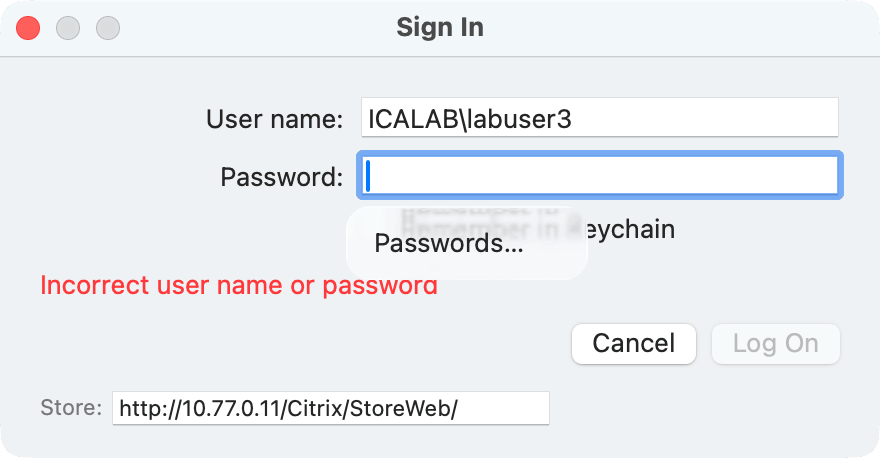
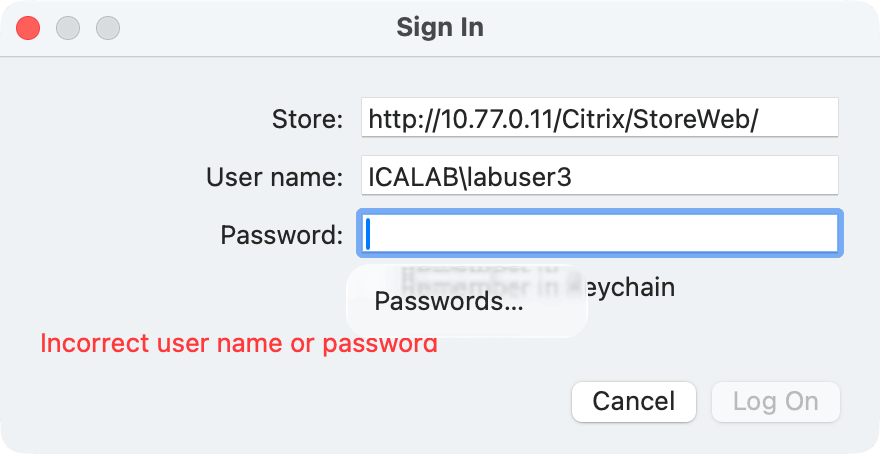
0.8.0: version, README and FEATURES for what landed since 0.7.0, manual refreshed (Settings panes, Session menu, sign-out, full desktop), release checklist with the profile and the DMG check in the VM

diff --git a/FEATURES.md b/FEATURES.md
@@ -1,20 +1,22 @@
 # Feature matrix: stock Citrix Workspace app vs ICAViewer
 
 ICAViewer is an independent project and is not affiliated with Citrix. The stock columns summarise
-Citrix's public documentation (links under Sources). The Ours column describes ICAViewer v0.5.0 as
-of 2026-11-13; how each feature behaves is described in the README and under `docs/`.
+Citrix's public documentation (links under Sources). The Ours column describes ICAViewer v0.8.0 as
+of 2026-11-18; how each feature behaves is described in the README and under `docs/`.
 
 ## At a glance
 
-- **Works, verified live:** gateway logon with password and one-time code, seamless apps as native
-  Mac windows with their own Dock entries, several apps in one session, reconnect, survival of short
-  network drops, Thinwire graphics, several monitors, Retina scaling, text and image clipboard,
-  audio playback and microphone.
-- **Built, not yet verified live:** client drive (one shared folder), printing to PDF, H.264,
-  formatted text (HTML, RTF) on the clipboard, webcam with a real camera, copying files through the
-  clipboard in the app is verified live both ways (D92).
-- **Main gaps:** file transfer, links opening on the Mac, automatic reconnect after longer drops,
-  UDP transport (EDT), Teams optimisation, smart cards, USB devices.
+- **Works, verified live:** gateway logon with password and one-time code, StoreFront directly without a
+  gateway, seamless apps as native Mac windows with their own Dock entries, several apps in one
+  session, a published desktop in one window, reconnect and survival of network drops, Thinwire and
+  H.264 graphics, Retina scaling, text, image, rich text and file clipboard, a shared client drive,
+  audio playback, PDF printing, the keyboard layout announced at sign-in, sign-out, and an indicator
+  for features the server refuses.
+- **Built, not yet verified live:** microphone (the test servers never opened it), webcam with a real
+  camera, a by-hand test of the automatic reconnect after a long drop.
+- **Main gaps:** links opening on the Mac, several monitors for a desktop, HTML on the clipboard (the
+  server filters it), SAML, smart card and FIDO2, USB devices, UDP transport (an experimental path
+  exists, off), Teams optimization.
 
 ## How to read the tables
 
@@ -42,7 +44,7 @@ of 2026-11-13; how each feature behaves is described in the README and under `do
 | Feature | Win | Mac | Linux | Web | ChromeOS | iOS | Android | Ours | Notes |
 |---|---|---|---|---|---|---|---|---|---|
 | StoreFront through NetScaler Gateway | Yes | Yes | Yes | Yes | Yes | Yes | Yes | Yes | |
-| StoreFront direct, without gateway | Yes | Yes | Yes | Yes | Yes | Yes | Yes | ? | Ours: designed; all tests ran through a gateway |
+| StoreFront direct, without gateway | Yes | Yes | Yes | Yes | Yes | Yes | Yes | Yes | Ours: verified live against the lab StoreFront, with CGP and raw ICA ports |
 | Citrix Cloud (Workspace) stores | Yes | Yes | Yes | Yes | Yes | Yes | Yes | No | |
 | Anonymous store access | Yes | Yes | Yes | Yes | Yes | Yes | Yes | ? | |
 | Store set-up from an email address | Yes | Yes | No | No | No | Yes | Yes | No | |
@@ -67,11 +69,11 @@ of 2026-11-13; how each feature behaves is described in the README and under `do
 | Feature | Win | Mac | Linux | Web | ChromeOS | iOS | Android | Ours | Notes |
 |---|---|---|---|---|---|---|---|---|---|
 | Seamless published apps | Likely | Partly | ? | Partly | ? | Partly | Partly | Yes | Mac: borderless windows (see below). Web: inside a browser tab. Mobile: inside a session view, unverified |
-| Full desktops | Yes | Yes | Yes | Yes | Yes | Yes | Yes | ? | Ours: only seamless apps are tested |
+| Full desktops | Yes | Yes | Yes | Yes | Yes | Yes | Yes | Partly | Ours: one published desktop opens in one fixed-size window (verified in a VM); no multi-monitor desktop |
 | Desktop Viewer toolbar | Yes | Yes | Yes | Yes | Yes | Yes | Yes | No | |
 | Several apps in one session | Yes | Yes | Yes | Yes | Yes | Yes | Yes | Yes | Ours: no second logon |
 | Reconnect to a disconnected session | Yes | Yes | Yes | Yes | Yes | Yes | Yes | Yes | Ours: also offered at start |
-| Session list (Connection Center) | Likely | ? | ? | ? | ? | ? | ? | Partly | Ours: reconnect, disconnect, log off |
+| Session list (Connection Center) | Likely | ? | ? | ? | ? | ? | ? | Yes | Ours: reconnect, take over, disconnect, log off; shows features the server refuses and an unencrypted connection |
 | Local App Access | Yes | No | No | No | No | No | No | No | |
 
 ## Network
@@ -96,10 +98,10 @@ of 2026-11-13; how each feature behaves is described in the README and under `do
 | Feature | Win | Mac | Linux | Web | ChromeOS | iOS | Android | Ours | Notes |
 |---|---|---|---|---|---|---|---|---|---|
 | Thinwire classic | Yes | Yes | Yes | Yes | Yes | Yes | Yes | Yes | |
-| H.264 | Yes | Yes | Yes | Yes | Yes | Yes | Yes | Built | Ours: the test server never chose H.264 |
+| H.264 | Yes | Yes | Yes | Yes | Yes | Yes | Yes | Yes | Ours: 4:2:0 decode verified in the lab; 4:4:4 is not requested |
 | H.265 / AV1 | Yes | Partly | Partly | ? | ? | ? | ? | No | Mac, Linux: H.265 only |
 | Full colour (YUV 4:4:4) | Yes | Yes | ? | ? | ? | ? | ? | No | |
-| Hardware video decoding | Yes | Yes | Yes | No | No | No | Yes | Built | Ours: VideoToolbox, the H.264 path |
+| Hardware video decoding | Yes | Yes | Yes | No | No | No | Yes | Yes | Ours: VideoToolbox, the H.264 path |
 | Desktop composition redirection | Yes | No | No | No | No | No | No | No | |
 | Several monitors as one desktop | Yes | Yes | Yes | Yes | Yes | Partly | Partly | Yes | iOS, Android: external monitor only. Ours: size fixed per session |
 | Retina / HiDPI scaling | Likely | ? | ? | Yes | ? | Yes | Yes | Yes | Ours: 2x on Retina, 1x above 5120 × 4096 |
@@ -118,7 +120,7 @@ of 2026-11-13; how each feature behaves is described in the README and under `do
 
 | Feature | Win | Mac | Linux | Web | ChromeOS | iOS | Android | Ours | Notes |
 |---|---|---|---|---|---|---|---|---|---|
-| Keyboard layout sync to a Windows VDA | Yes | Yes | Yes | No | No | Yes | Yes | Yes | Ours: the Mac's input source at logon (DE, US, UK, FR, CH, NL, ES, IT, Dvorak and more); after a switch, characters go as text (D141) |
+| Keyboard layout sync to a Windows VDA | Yes | Yes | Yes | No | No | Yes | Yes | Yes | Ours: the Mac's input source at sign-in (DE, US, UK, FR, CH, NL, ES, IT, Dvorak and more); after a switch, characters go as text; verified headless |
 | Keyboard layout sync to a Linux VDA | Yes | Yes | Yes | No | No | Yes | Yes | ? | |
 | Scancode keyboard mode | Yes | Yes | Yes | Yes | Yes | No | No | Yes | |
 | Unicode keyboard mode | No | Yes | Yes | Yes | Yes | Yes | Yes | Partly | Ours: Option-composed characters only |
@@ -133,9 +135,9 @@ of 2026-11-13; how each feature behaves is described in the README and under `do
 | Feature | Win | Mac | Linux | Web | ChromeOS | iOS | Android | Ours | Notes |
 |---|---|---|---|---|---|---|---|---|---|
 | Clipboard: plain text | Likely | Yes | Yes | Yes | ? | ? | ? | Yes | |
-| Clipboard: formatted text, images | Likely | Yes | Yes | Partly | ? | ? | ? | Partly | Web: HTML confirmed, images not. Ours: images verified both ways (D85); RTF with formatting and rich text with an embedded image (RTFD ⇄ RTF `\pict`) verified both ways with Word, headless (D100); HTML built, not carried by the site's Word |
-| Clipboard: files | Likely | Yes | Yes | ? | ? | ? | ? | Built | Ours: both ways over CTXGDT, Finder ⇄ Explorer, folders included; protocol verified live headless (D88), app built, live check pending (D90) |
-| Local folder in the session (client drive) | Yes | Yes | Yes | Yes | Yes | Yes | Yes | Built | Ours: one shared folder; the test site maps no drives |
+| Clipboard: formatted text, images | Likely | Yes | Yes | Partly | ? | ? | ? | Yes | Web: HTML confirmed, images not. Ours: images and RTF (also with a picture) verified both ways with WordPad and LibreOffice Writer; HTML does not cross (the server filters it) |
+| Clipboard: files | Likely | Yes | Yes | ? | ? | ? | ? | Yes | Ours: both ways over CTXGDT, Finder and Explorer, folders included, with a progress window above 50 MB; verified live in a VM. Throughput depends on the server pacing |
+| Local folder in the session (client drive) | Yes | Yes | Yes | Yes | Yes | Yes | Yes | Yes | Ours: one shared folder as drive M, verified live (the read bug is fixed) |
 | File transfer (upload, download) | Likely | Likely | Likely | Likely | Likely | ? | ? | No | Not a matrix row. Ours: under investigation |
 | Open a local file in a remote app | Yes | Partly | Yes | No | Yes | Yes | Yes | No | Mac: matrix no, but Mac 2411 added file type association |
 | Links in remote apps open on the client | Yes | Yes | Yes | Yes | Yes | Yes | Yes | No | Host-to-client URL redirection |
@@ -145,14 +147,14 @@ of 2026-11-13; how each feature behaves is described in the README and under `do
 
 | Feature | Win | Mac | Linux | Web | ChromeOS | iOS | Android | Ours | Notes |
 |---|---|---|---|---|---|---|---|---|---|
-| Printing to client printers | Yes | Yes | Yes | Yes | Yes | Yes | No | Built | Ours: PDF to the macOS print panel, off by default |
+| Printing to client printers | Yes | Yes | Yes | Yes | Yes | Yes | No | Yes | Ours: the session PDF printer delivers a PDF to the Mac, verified to a valid PDF; off by default |
 | Any USB device (generic USB) | Yes | Yes | Yes | Yes | Yes | Yes | Yes | No | Mac docs describe storage devices |
 | Smart card in the session | Likely | ? | Likely | ? | Partly | ? | ? | No | ChromeOS: through generic USB |
 | FIDO2 / WebAuthn in the session | Yes | Yes | Yes | ? | ? | ? | ? | No | Windows 2402, Linux 2303, Mac 2307 and later |
 | Scanners | Yes | No | Partly | No | Yes | No | No | No | Windows: TWAIN, WIA (not LTSR). Linux: SANE. ChromeOS 2411.1; matrix says no |
 | Webcam | Yes | Yes | Yes | Yes | Yes | Yes | Yes | Built | Ours: 32-bit host apps only; no real camera tried |
 | Audio playback | Yes | Yes | Yes | Yes | Yes | Yes | Yes | Yes | |
-| Microphone | Yes | Yes | Yes | Yes | Yes | Yes | Yes | Yes | Ours: off by default |
+| Microphone | Yes | Yes | Yes | Yes | Yes | Yes | Yes | Built | Ours: off by default; the test servers' VDA never opened the capture device, so nothing has been recorded |
 | Audio over UDP | Yes | No | Yes | No | No | No | No | No | |
 | Location | Yes | Partly | No | No | No | Yes | Yes | No | Mac 2607 preview; matrix says no |
 | Mobile device features (mobility pack) | Yes | No | No | Yes | Yes | Yes | Yes | No | |
@@ -238,22 +240,16 @@ Libraries next to them: `libUrlRedirection_client.dylib` (link redirection), `li
 
 Ordered for daily use through a gateway with mail and line-of-business applications.
 
-1. **Auto client reconnect: built, live check pending.** Session reliability covers short outages.
-   The ACR protocol works up to the host, but on this site Windows then asks for a logon (D84). So
-   after a longer outage ICAViewer now relaunches the app through the store by itself, which
-   reconnects the session; it waits up to 10 minutes for the network and then falls back to the
-   Reconnect panel (D86). Needs the user's GUI test (Wi-Fi off for more than 3 minutes).
-2. **Live verification of what is already built.** Client drive mapping and printing are
-   implemented but need a site that redirects drives and printers; clipboard HTML and RTF are
-   unverified too (the Word test app was unavailable; images are verified, D85), as is the webcam
-   with a real camera.
-3. **Real-camera check of the webcam.** Implemented; only 32-bit host apps can use it (Teams
-   optimisation is a separate, larger piece).
-4. **Full-desktop launch.** Only seamless apps are exercised.
-5. **General file transfer.** Clipboard files work both ways (verified live); beyond that only the
-   shared folder exists. Mixed clipboard content (text plus an image as a file, e.g. from Pages)
-   arrives incomplete.
-6. **EDT/UDP and further authentication methods** beyond ExplicitForms with TOTP; H.264 is untested.
+1. **Auto client reconnect: built, live check pending.** Session reliability covers short outages
+   (verified under lab fault injection). After a longer outage ICAViewer relaunches the app through the
+   store by itself and waits up to 10 minutes for the network; it was run live with a 4-minute outage,
+   but a Wi-Fi-off test by hand is still open.
+2. **Microphone and webcam.** Implemented; the test servers never opened the capture device, and no real
+   camera has been tried (only 32-bit host apps can use the webcam).
+3. **Several monitors in a published desktop**, and more than one fixed-size window for it.
+4. **File transfer** beyond clipboard files and the shared folder; HTML on the clipboard (filtered by the server).
+5. **Authentication** beyond ExplicitForms with TOTP and plain StoreFront forms (SAML, smart card, FIDO2),
+   USB devices, links opening on the Mac, and HDX over UDP (an experimental, switched-off path exists).
 
 Not listed because they matter only in particular deployments: smart card, FIDO2, pass-through,
 Citrix Cloud, App Protection, EPA, GACS, auto-update.

diff --git a/README.md b/README.md
@@ -23,60 +23,49 @@ and not a replacement for the official client. Expect gaps; see [Status](#status
 |---|---|
 | <img src="assets/screenshots/login.png" width="440" alt="Sign-in window"> | <img src="assets/screenshots/launcher.png" width="420" alt="Launcher"> |
 
-| Settings and Keychain storage | Reconnecting after a network drop |
+| Settings (Devices pane) | Reconnecting after a network drop |
 |---|---|
-| <img src="assets/screenshots/settings.png" width="540" alt="Settings window"> | <img src="assets/screenshots/hud.png" width="360" alt="Reconnect status"><br><br><img src="assets/screenshots/gaveup.png" width="360" alt="Reconnect panel"> |
+| <img src="manual/images/settings-devices.png" width="440" alt="Settings window, Devices pane"> | <img src="assets/screenshots/hud.png" width="360" alt="Reconnect status"><br><br><img src="assets/screenshots/gaveup.png" width="360" alt="Reconnect panel"> |
 
-The calculator above is a live session; the other images use the app's demo mode
+The calculator above is a live session, and the Settings image is from the lab; the other images use the app's demo mode
 (`ICAVIEWER_DEMO=1`) with example data.
 
 ## What works
 
-- Gateway logon (nFactor ExplicitForms with username, password and TOTP passcode), store resource
-  list and launch, from a native login window generated from the gateway's own form definition.
-- Optional credential storage in the macOS Keychain, with Touch ID or password required before the
-  TOTP secret is read. Builds with Keychain entitlements (a provisioning profile, see Building) use
-  the data protection keychain: Touch ID enforced by the Keychain, items bound to this Mac. Builds
-  without one (ad hoc, or Developer ID without a profile) use the login keychain: the items are
-  limited to this app, but Touch ID is checked by the app and the items move with backups.
-- TLS to the gateway, CGP with session reliability: the session survives network drops, Wi-Fi
-  changes and short sleeps (up to the server's reliability timeout, typically 180 s), with dimmed
-  windows and a countdown while reconnecting.
-- ICA handshake, V3 framing, keyboard (scancodes) and mouse input.
-- Thinwire classic graphics (the GDI-style command set, caches, pointer shapes), double-buffered,
-  with an adaptive frame-rate limit. An H.264 path (VideoToolbox) exists but is untested.
-- Seamless windows (TWI): native windows and popups, local move and resize without round trips,
-  minimise, multi-monitor sessions spanning all screens.
-- Reconnecting to an existing disconnected session. A start that drops early is retried a few times.
-  At start, the launcher offers to reconnect disconnected sessions (verified live).
-- Session sharing: several published apps run in one session. A second app starts inside the
-  running session, with no second logon (verified live). Closing one app leaves the others running.
-- One Dock and Cmd-Tab entry per remote app, with the app's own name and icon and its own Mac menu
-  bar; Cmd-Q there quits only that app. While remote apps are open, ICA Viewer itself moves to the
-  menu bar, and the launcher stays one click away there or on ⌃⌥⌘L from anywhere. If a helper
-  crashes, it is restarted, and its windows fall back into ICA Viewer. On by default; Settings
-  switches back to a single Dock entry whose icon and menu name follow the active app. The launcher
-  shows the real app icons. Verified live.
-- A new app icon, with Liquid Glass appearances on macOS 26.
-- Display scaling: Windows scaling and client scaling are set separately. The Auto default is
-  Retina-sharp at normal size (2x / 200 %), chosen per screen, and falls back to 1x when the
-  session would exceed the protocol's size limit (5120x4096). Verified live: a single Retina
-  screen runs at 2x, and two Retina screens fall back to 1x. Settings explains the fallback.
-- Session management: a Connection Center window (Cmd-Shift-C) lists sessions and can reconnect,
-  disconnect or log them off. Cmd-Q asks whether to Disconnect (default) or Log off. Verified live
-  with a user.
-- Launcher: type to filter the resource list, Return (or a double-click) launches.
-- Audio playback (PCM, Opus): verified live, heard on the Mac.
-- Microphone: Opus uplink when a session application records. Off by default in Settings; macOS asks
-  for permission on first use, and a menu-bar item disables the microphone for the current session.
-  Verified live.
-- Clipboard: text works both ways in the app (verified live).
-- Copying files through the clipboard, both ways: copy in Finder and paste in Explorer, or copy in
-  Explorer and paste in Finder (folders too, up to 200 MB per paste from the session). Settings ›
-  Clipboard › "Copy files through the clipboard", on by default. Verified live both ways, including
-  a folder with a subfolder; files from the session get the quarantine flag.
-- Clipboard images both ways (verified live).
-- Report a Problem (Help menu): builds a scrubbed report and a prefilled GitHub issue; see
+Verified live means: run against a test lab (a StoreFront site with Windows VDAs), in a macOS VM or headless.
+
+- **Sign-in:** a gateway with an nFactor form (user name, password, TOTP passcode), or a StoreFront
+  store directly, without a gateway. The login window is generated from the server's own form. Sign
+  Out (File menu) ends the store and gateway sessions at the servers.
+- **Saved logins:** optional, in the macOS Keychain with Touch ID or the Mac password required.
+  The release build is signed with a Keychain access group, so the items are bound to this Mac and
+  Touch ID is enforced by the Keychain; builds without it use the login keychain (see Build and run).
+- **Seamless apps:** every remote window is a real Mac window, with one Dock and Cmd-Tab entry per
+  app, its own menu bar (Cmd-Q quits that app only), and the launcher on ⌃⌥⌘L. Several apps share
+  one session. A published desktop opens in one window (fixed size; no multi-monitor desktop).
+- **Sessions survive trouble:** session reliability carries short network drops (dimmed windows and a
+  countdown), longer drops reconnect automatically, and the launcher offers to reconnect
+  disconnected sessions. The Connection Center lists sessions (reconnect, disconnect, log off) and
+  shows which features the server refuses ("blocked by server policy") and an unencrypted
+  connection.
+- **Graphics and displays:** Thinwire classic and H.264 (4:2:0 decode verified), Retina-sharp 2x
+  with a 1x fallback, separate Windows and client scaling.
+- **Keyboard:** scancodes and Unicode, Cmd shortcuts sent as Ctrl; the Mac's keyboard layout is
+  announced at sign-in, and after a layout switch printable keys go as text (verified headless).
+- **Clipboard:** text and images both ways; rich text (RTF, also with a picture) both ways with
+  WordPad and LibreOffice Writer; files and folders between Finder and File Explorer both ways, with a
+  progress window for large copies. HTML does not cross (the server filters it). Large copies from
+  the session are slow on servers that pace file transfers.
+- **Client drive:** one shared folder as drive M (verified live; files written by the session get the
+  quarantine flag).
+- **Printing:** the session's PDF printer delivers a PDF to the Mac (verified to a valid PDF; off by
+  default). **Audio playback** (verified live).
+- **Interface:** Settings in four panes that apply at once, Mac-style menus, VoiceOver labels,
+  contrast settings, English and German. Help opens the [user manual](manual/README.md).
+- **Security:** server XML never expands entities, host input cannot crash the viewer, no HTTPS to
+  HTTP downgrade, a gateway account never connects in plain TCP, and release builds ignore test
+  switches in the environment.
+- **Report a Problem** (Help menu): builds a scrubbed report and a prefilled GitHub issue; see
   [Reporting problems](#reporting-problems).
 
 ## User manual
@@ -87,22 +76,16 @@ A full user manual with screenshots is in [manual/](manual/README.md): installat
 
 See [FEATURES.md](FEATURES.md) for a feature-by-feature comparison with the official clients.
 
-Implemented but not yet verified live:
+Implemented but not verified live: the **microphone** (macOS asks for permission; the test servers'
+VDA never opened the capture device, so nothing has been recorded) and the **webcam** (the host
+handshake works, no real camera has been tried; only 32-bit host apps can use it). The gateway step
+of Sign Out was not run against a live gateway, and the keyboard layout switch has been checked
+against the protocol, not yet by hand in the app. Only seamless app launches and one published
+desktop were exercised.
 
-- Clipboard HTML and RTF.
-- Client drive mapping: one shared folder (default `~/Citrix Shared`, read-write, strictly
-  confined, files written by the session get the quarantine flag). Security-reviewed; the test site
-  does not redirect client drives.
-- Printing: PDF printing through the host's PDF printer to the macOS print panel. Off by default;
-  the test site creates no client printers.
-- Webcam: HDX webcam redirection (H.264) with a camera picker. Off by default; macOS asks for
-  permission when the host first starts the camera. The host handshake is verified, but no real
-  camera has been tried yet. Only 32-bit host applications can use this webcam path; 64-bit apps
-  (Windows Camera, Teams, modern browsers) will not see the camera.
-
-Not implemented yet: EDT/UDP, other authentication methods (SAML, smart card, FIDO2), file transfer beyond the
-shared folder. H.264 is untested. Only seamless app launches are exercised; full desktops are
-untested.
+Not implemented: SAML, smart card and FIDO2 sign-in, USB devices, links opening on the Mac, file
+transfer beyond clipboard files and the shared folder, Teams optimization. HDX over UDP exists as an
+experimental, switched-off code path and is not part of this release.
 
 ## Reporting problems
 
@@ -118,7 +101,7 @@ the preview before you submit. Separately, ICAViewer keeps a local log in `~/Lib
 ## Requirements
 
 - macOS 14 or later, Swift 6 toolchain (Xcode 16 or newer).
-- An environment reachable through a NetScaler Gateway with an ExplicitForms nFactor policy.
+- A StoreFront store, directly or behind a NetScaler Gateway with an ExplicitForms nFactor policy.
 
 ## Install
 

diff --git a/manual/05-clipboard.md b/manual/05-clipboard.md
@@ -18,7 +18,7 @@ Copy a picture on the Mac (for example from Preview, or a screenshot to the clip
 
 ## Formatted text
 
-Formatted text (bold, lists, tables) is passed as rich text when both apps support it. Which formatting survives depends on the two apps. If the receiving app cannot take the formatting, you get plain text.
+Formatted text (bold, colors, lists, and pictures inside it) is passed as rich text when both apps support it, in both directions. It was checked with WordPad and LibreOffice Writer. Which formatting survives depends on the two apps. If the receiving app cannot take the formatting, you get plain text. HTML (for example copied from a web page) is usually filtered by the server, so you get plain text.
 
 ## Files and folders
 
@@ -40,6 +40,7 @@ The feature is on by default. You can turn it off in [Settings](12-settings.md#c
 ![The progress window for a large copy from the session](images/clipboard-progress.png)
 
 - Above a size limit (10 GB by default), ICA Viewer asks before it starts. You can change the limit in **Settings**, **Ask above 1, 5, 10 or 50 GB**, or **Never ask**. Copies from the Mac to the session stop at this size.
+- How fast it is depends on the server: some servers pace file transfers, so a copy can be slow however fast your network is.
 - ICA Viewer checks that your Mac has enough free disk space first, and refuses the copy otherwise.
 - At most 1,000 files and folders are copied at once. Links and unreadable items on the Mac are left out, and ICA Viewer tells you.
 

diff --git a/manual/04-remote-apps.md b/manual/04-remote-apps.md
@@ -59,8 +59,9 @@ To quit ICA Viewer itself, use the menu bar icon > **Quit ICA Viewer**, or **ICA
 
 - **⌘ shortcuts are sent as Ctrl shortcuts.** ⌘C, ⌘V, ⌘X, ⌘A, ⌘Z and so on do what Ctrl+C and so on do in Windows. ⌘Q, ⌘H and ⌘M stay Mac shortcuts.
 - **The Option key (⌥)** types special characters as on your Mac (for example @ or € on some layouts). Tapping ⌥ alone acts as the Windows Alt key, for example to reach the menu bar of a Windows app.
+- **Keyboard layout.** ICA Viewer tells the server which layout your Mac uses when you sign in (German, US, UK, French, Swiss, Dutch, Spanish, Italian, Dvorak and more). If you switch the Mac's input source during a session, ICA Viewer sends the characters you type as text, so they stay right, but keyboard shortcuts still use key positions.
 - More in [Keyboard shortcuts](15-shortcuts.md).
 
 ## Full desktops
 
-ICA Viewer is built and tested for published apps. A published *desktop* (such as the lab's "Lab Desktop") has not been tested and may not work.
+A published *desktop* (such as the lab's "Lab Desktop") opens in one ordinary window with the resource's name. The window has a fixed size (90 % of your main screen), cannot be resized, and does not span several screens. Closing the window disconnects the session; the desktop keeps running and you can reconnect from the launcher or the [Connection Center](10-connection-center.md).

diff --git a/manual/02-signing-in.md b/manual/02-signing-in.md
@@ -2,6 +2,10 @@
 
 ICA Viewer signs in to your organization's **gateway** (a Citrix Gateway, also called NetScaler Gateway) or directly to a **StoreFront** store. It builds the sign-in form from what the server asks for, so the fields you see depend on your organization.
 
+## Gateway or StoreFront directly
+
+Enter the address of a **gateway** and ICA Viewer signs in through it. Enter the address of a **StoreFront store** and it signs in to the store directly, without a gateway; this works the same way for you. Either way, the rest of this chapter applies.
+
 ## Enter the address
 
 1. Open ICA Viewer. The **Sign In** window asks for the address.
@@ -46,4 +50,8 @@ Tick **Remember in Keychain** before you sign in. ICA Viewer then keeps your pas
 
 ## Sign in again
 
-If the app starts without a saved login, or the server asks you to sign in again, choose **ICA Viewer > Sign In…**.
+If the app starts without a saved login, or the server asks you to sign in again, choose **File > Sign In…**.
+
+## Sign out
+
+**File > Sign Out** ends your sign-in at the server (the store and, if you came through one, the gateway) and removes the sign-in cookies from your Mac. Sessions that are already open are not touched; they keep running. **Forget All Saved Credentials** in **Settings > Account** does the same and also deletes the saved password and TOTP secret.

diff --git a/RELEASING.md b/RELEASING.md
@@ -38,13 +38,16 @@ Run the publish tool (kept outside this repository) into a new directory:
 ## 4. Disk image
 
 ```sh
-ICA_SIGN=developer-id ICA_NOTARY_PROFILE=<notarytool keychain profile> scripts/make-dmg.sh
+ICA_SIGN=developer-id ICA_NOTARY_PROFILE=<notarytool keychain profile> \
+  ICA_RELEASE_PROFILE=<Developer ID .provisionprofile> scripts/make-dmg.sh
 ```
 
 Run it in the scrubbed tree so the shipped build identity matches the public history.
 
 - [ ] The DMG is signed with the Developer ID, notarized and stapled (`xcrun stapler validate`, `spctl -a -vv`).
+- [ ] The embedded profile is present and `codesign -d --entitlements -` shows `keychain-access-groups` and the application identifier (without `ICA_RELEASE_PROFILE` the build falls back to the login keychain).
 - [ ] Universal binary (`lipo -archs`), the SHA-256 file next to the DMG.
+- [ ] In the macOS test VM (not on your own screen): `scripts/macvm/exec.sh .build/ICAViewer.app scripts/macvm/tests/dmg-check.sh <the DMG>` starts the app from the DMG, shows the log line `release build: ignored test switches`, and the About panel.
 - [ ] The About panel shows the right version, build and commit, and a clean tree.
 
 ## 5. Push and release (only on the maintainer's go)

diff --git a/manual/14-troubleshooting.md b/manual/14-troubleshooting.md
@@ -20,7 +20,7 @@ Logins are saved only when **Remember in Keychain** is ticked, and never after a
 Try again. If the server says it refused another session for your user, you may have a session open on another device: look in the [Connection Center](10-connection-center.md) and use **Take Over…** or **Log Off**.
 
 **I do not see any apps in the launcher.**
-Your account may have none assigned, or the sign-in did not finish. Choose **ICA Viewer > Sign In…** and try again, or ask your IT department.
+Your account may have none assigned, or the sign-in did not finish. Choose **File > Sign In…** and try again, or ask your IT department.
 
 **An app opened in the same session as another one.**
 That is normal: apps of the same user share one session, which is why the second app starts quickly and needs no new sign-in. ICA Viewer shows a message when a particular app has to run in the session of another.

diff --git a/manual/10-connection-center.md b/manual/10-connection-center.md
@@ -48,4 +48,6 @@ Your organization's server decides which redirections a session may use. If it r
 - Printing: blocked by server policy
 - Audio: blocked by server policy
 
+A connection that is not encrypted (for example to a store at an `http://` address) shows the line **Connection: not encrypted**.
+
 The first time you try to use a blocked feature in a session, ICA Viewer also shows a short notice, for example "The server's policy blocks the clipboard for Notepad." These are not faults of your Mac; only your IT department can change the policy. The lab user used for the screenshots in this manual has no blocked features, so none appear above.

diff --git a/manual/16-privacy-security.md b/manual/16-privacy-security.md
@@ -21,7 +21,7 @@ ICA Viewer does not check for updates and does not collect usage data.
 | Files copied from the session | A temporary folder in `~/Library/Caches/ICAViewer`, removed at the next copy and when you quit | The files you paste stay where Finder puts them |
 | The shared folder | `~/Citrix Shared` (or the one you choose) | Only if you turn on the client drive |
 
-**Forget All Saved Credentials** in **Settings** deletes the password and TOTP secret.
+**Forget All Saved Credentials** in **Settings > Account** deletes the password and TOTP secret, and also signs out at the server.
 
 ## What a remote app can do on your Mac
 

diff --git a/manual/08-audio-video.md b/manual/08-audio-video.md
@@ -8,6 +8,8 @@ If your server blocks audio, the [Connection Center](10-connection-center.md#fea
 
 ## Microphone
 
+> **Not verified.** The microphone is implemented, but on the servers it was tested against, the Windows session never opened it, so nothing was recorded. It may not work with your server.
+
 The microphone is **off by default**. To use it, for example for a voice recorder or a call in a remote app:
 
 1. In **Settings > Devices**, tick **Pass the microphone to the session**.

diff --git a/manual/03-launcher.md b/manual/03-launcher.md
@@ -22,7 +22,7 @@ The launcher closes when you start an app. To open it again:
 
 - press **⌃⌥⌘L** from any app (you can change this shortcut in **Settings**),
 - or click the ICA Viewer icon in the menu bar and choose **Open Launcher**,
-- or choose **ICA Viewer > Show Launcher** (⌘L) while ICA Viewer is in front.
+- or choose **Window > Launcher** (⌘L) while ICA Viewer is in front.
 
 ## Sessions that are still running
 

diff --git a/manual/README.md b/manual/README.md
@@ -1,6 +1,6 @@
 # ICA Viewer User Manual
 
-Version <!-- version -->0.7.0<!-- /version -->
+Version <!-- version -->0.8.0<!-- /version -->
 
 ICA Viewer is a Mac app for working with Windows apps that your organization publishes through Citrix. Each remote app opens in its own Mac window, with its own Dock icon, and works with Cmd-Tab, Mission Control and your window switcher like any local app.
 
